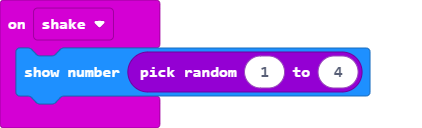
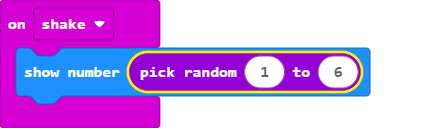
Update main.blocks, main.ts

Changed region(s): [[0.2773, 0.375, 0.8626, 0.75]]

diff --git a/main.ts b/main.ts
@@ -1,3 +1,3 @@
 input.onGesture(Gesture.Shake, function () {
-    basic.showNumber(randint(1, 4))
+    basic.showNumber(randint(1, 6))
 })
